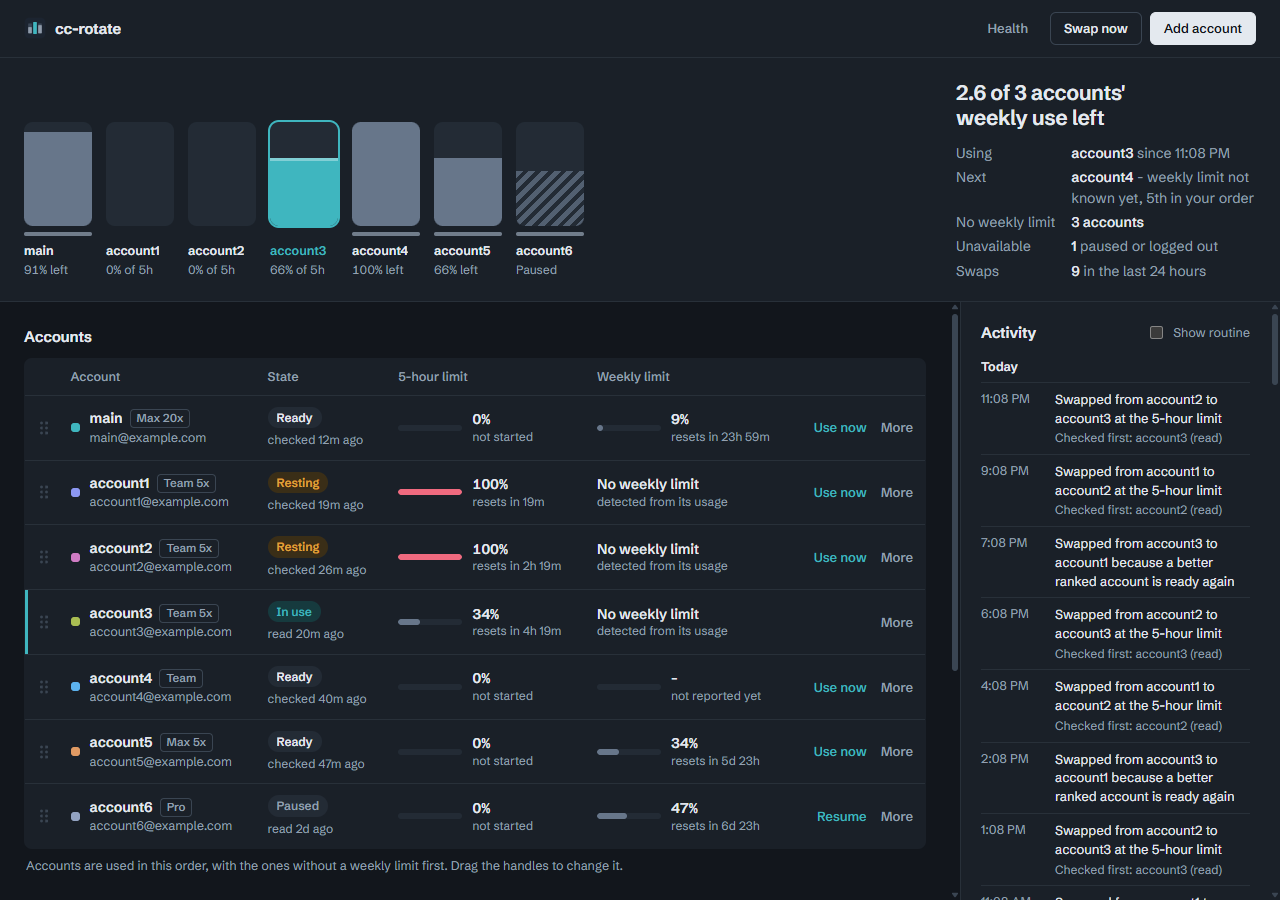
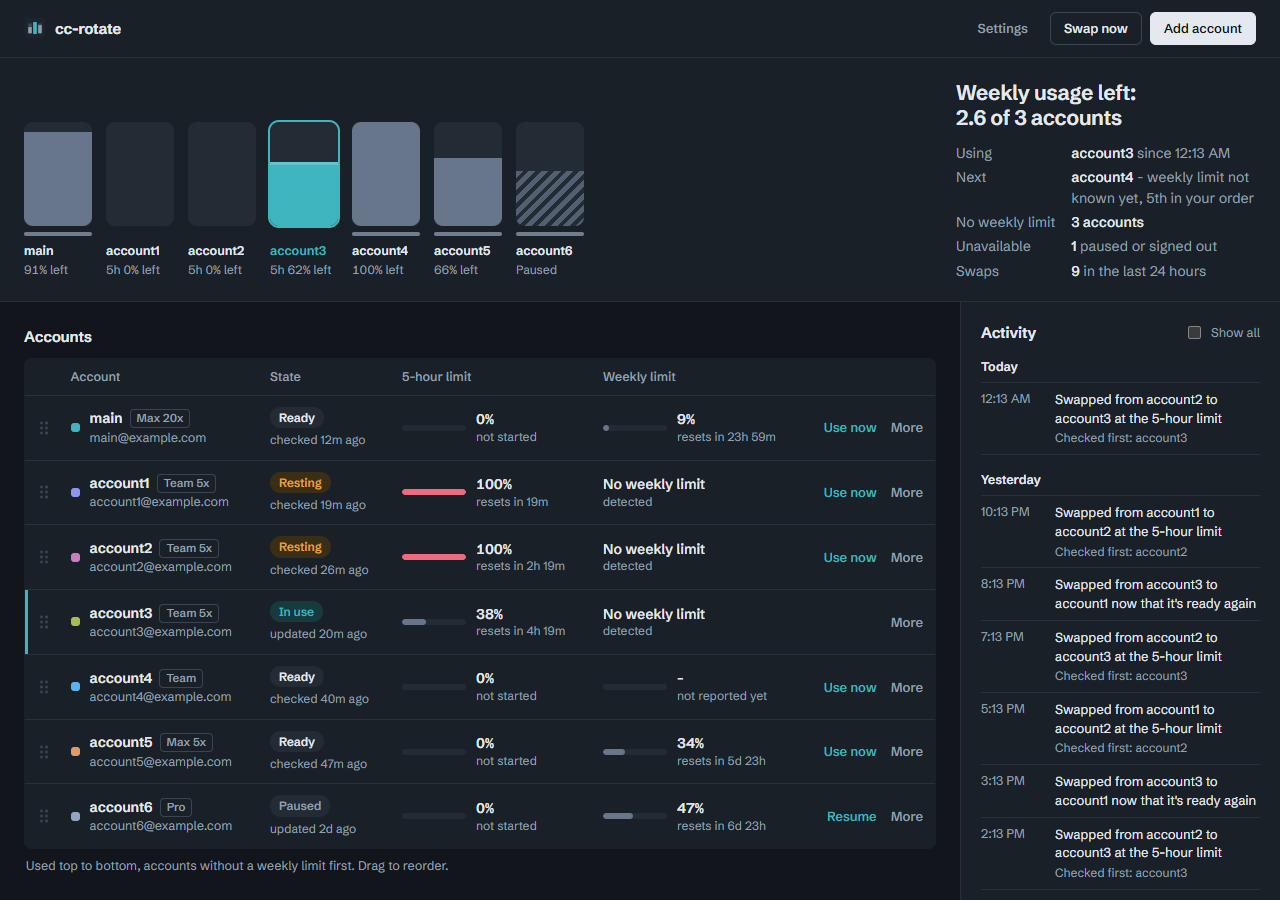
docs: retake the dashboard screenshots with the new wording
The demo store gives its accounts an organization and records each check's state, so Health and the More dialog agree with the account rows.

diff --git a/crates/ccr-core/examples/demo_store.rs b/crates/ccr-core/examples/demo_store.rs
@@ -59,6 +59,7 @@ fn main() -> Result<()> {
         let ident = AccountIdentity {
             email: Some(format!("{name}@example.com")),
             account_uuid: Some(format!("demo-{i}")),
+            org_uuid: Some(format!("demo-org-{i}")),
             subscription_type: Some(sub.to_string()),
             rate_limit_tier: Some(tier.to_string()),
             ..Default::default()
@@ -171,12 +172,20 @@ fn main() -> Result<()> {
             continue;
         }
         let paused = i == PAUSED;
+        let ts = if paused {
+            now - 2 * 24 * hour
+        } else {
+            now - (12 + 7 * i as i64) * 60_000
+        };
+        if !paused {
+            // The check's own record, as the More dialog shows it.
+            store.set_meta(
+                &format!("usage_check:{}", s.id),
+                json!({ "last_attempt_at": ts, "last_read_at": ts }).to_string(),
+            )?;
+        }
         store.record_sample(&Sample {
-            ts: if paused {
-                now - 2 * 24 * hour
-            } else {
-                now - (12 + 7 * i as i64) * 60_000
-            },
+            ts,
             account_id: s.id,
             profile: if paused { "rotate" } else { "check" }.into(),
             session_id: None,
